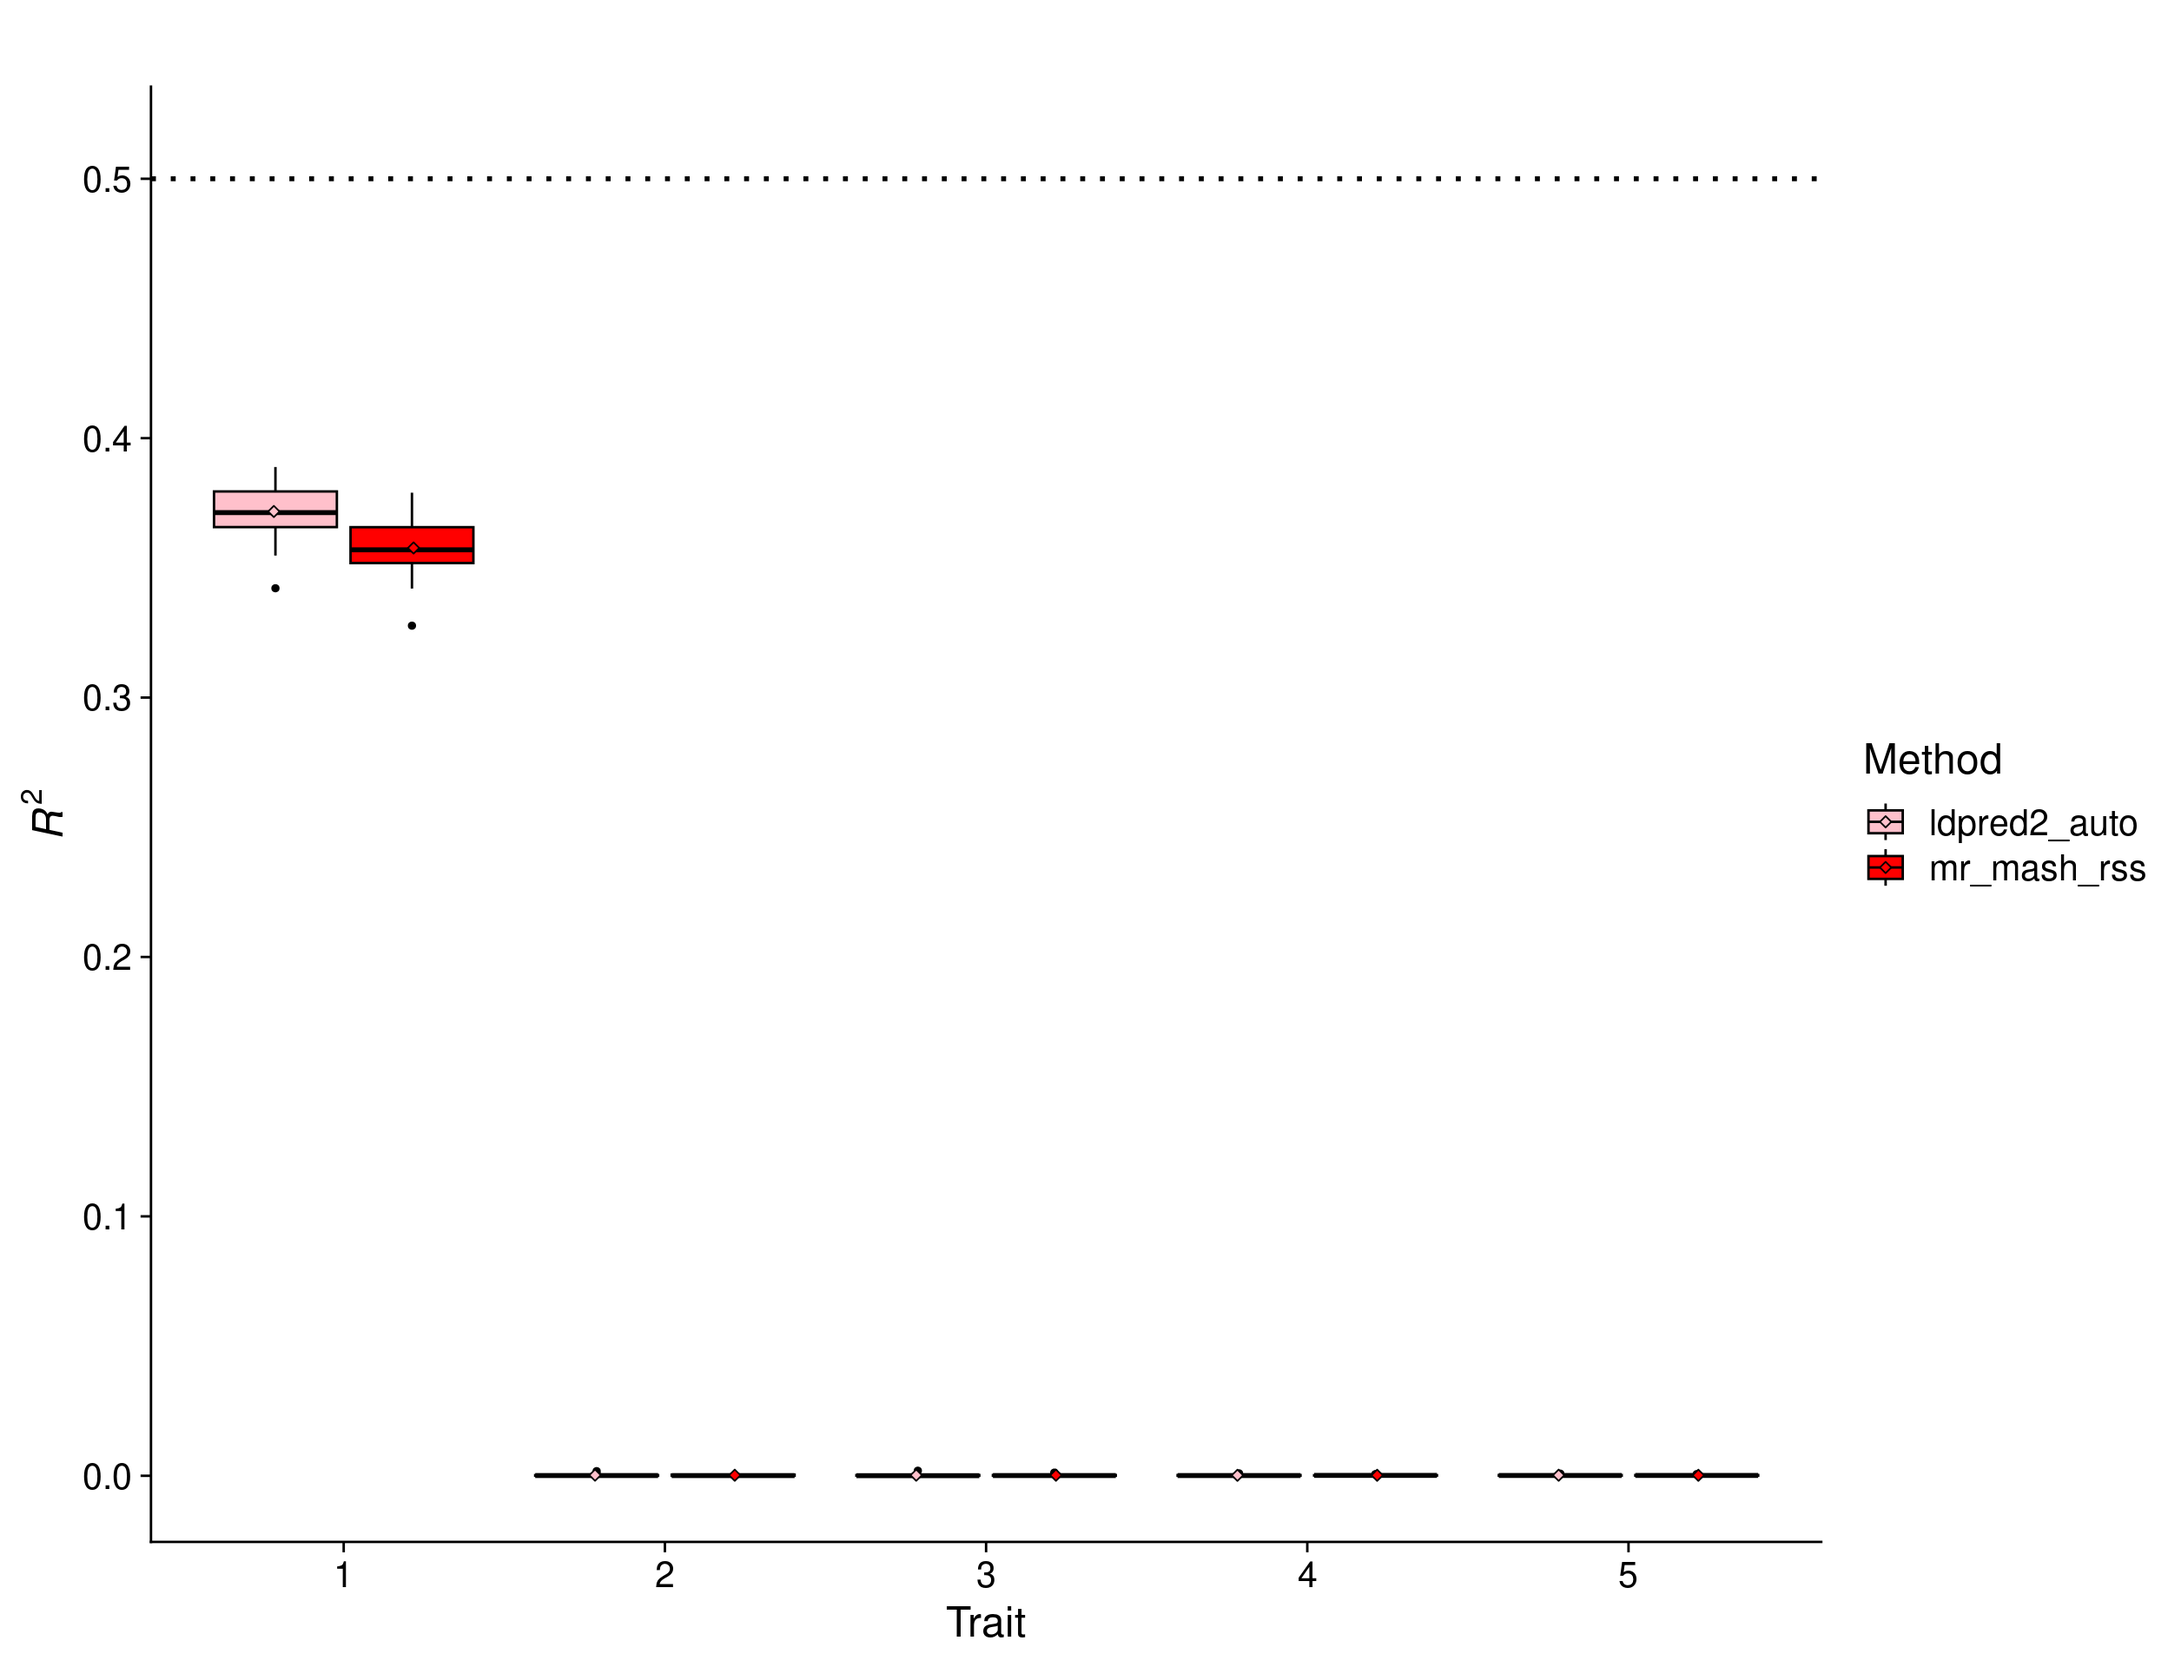
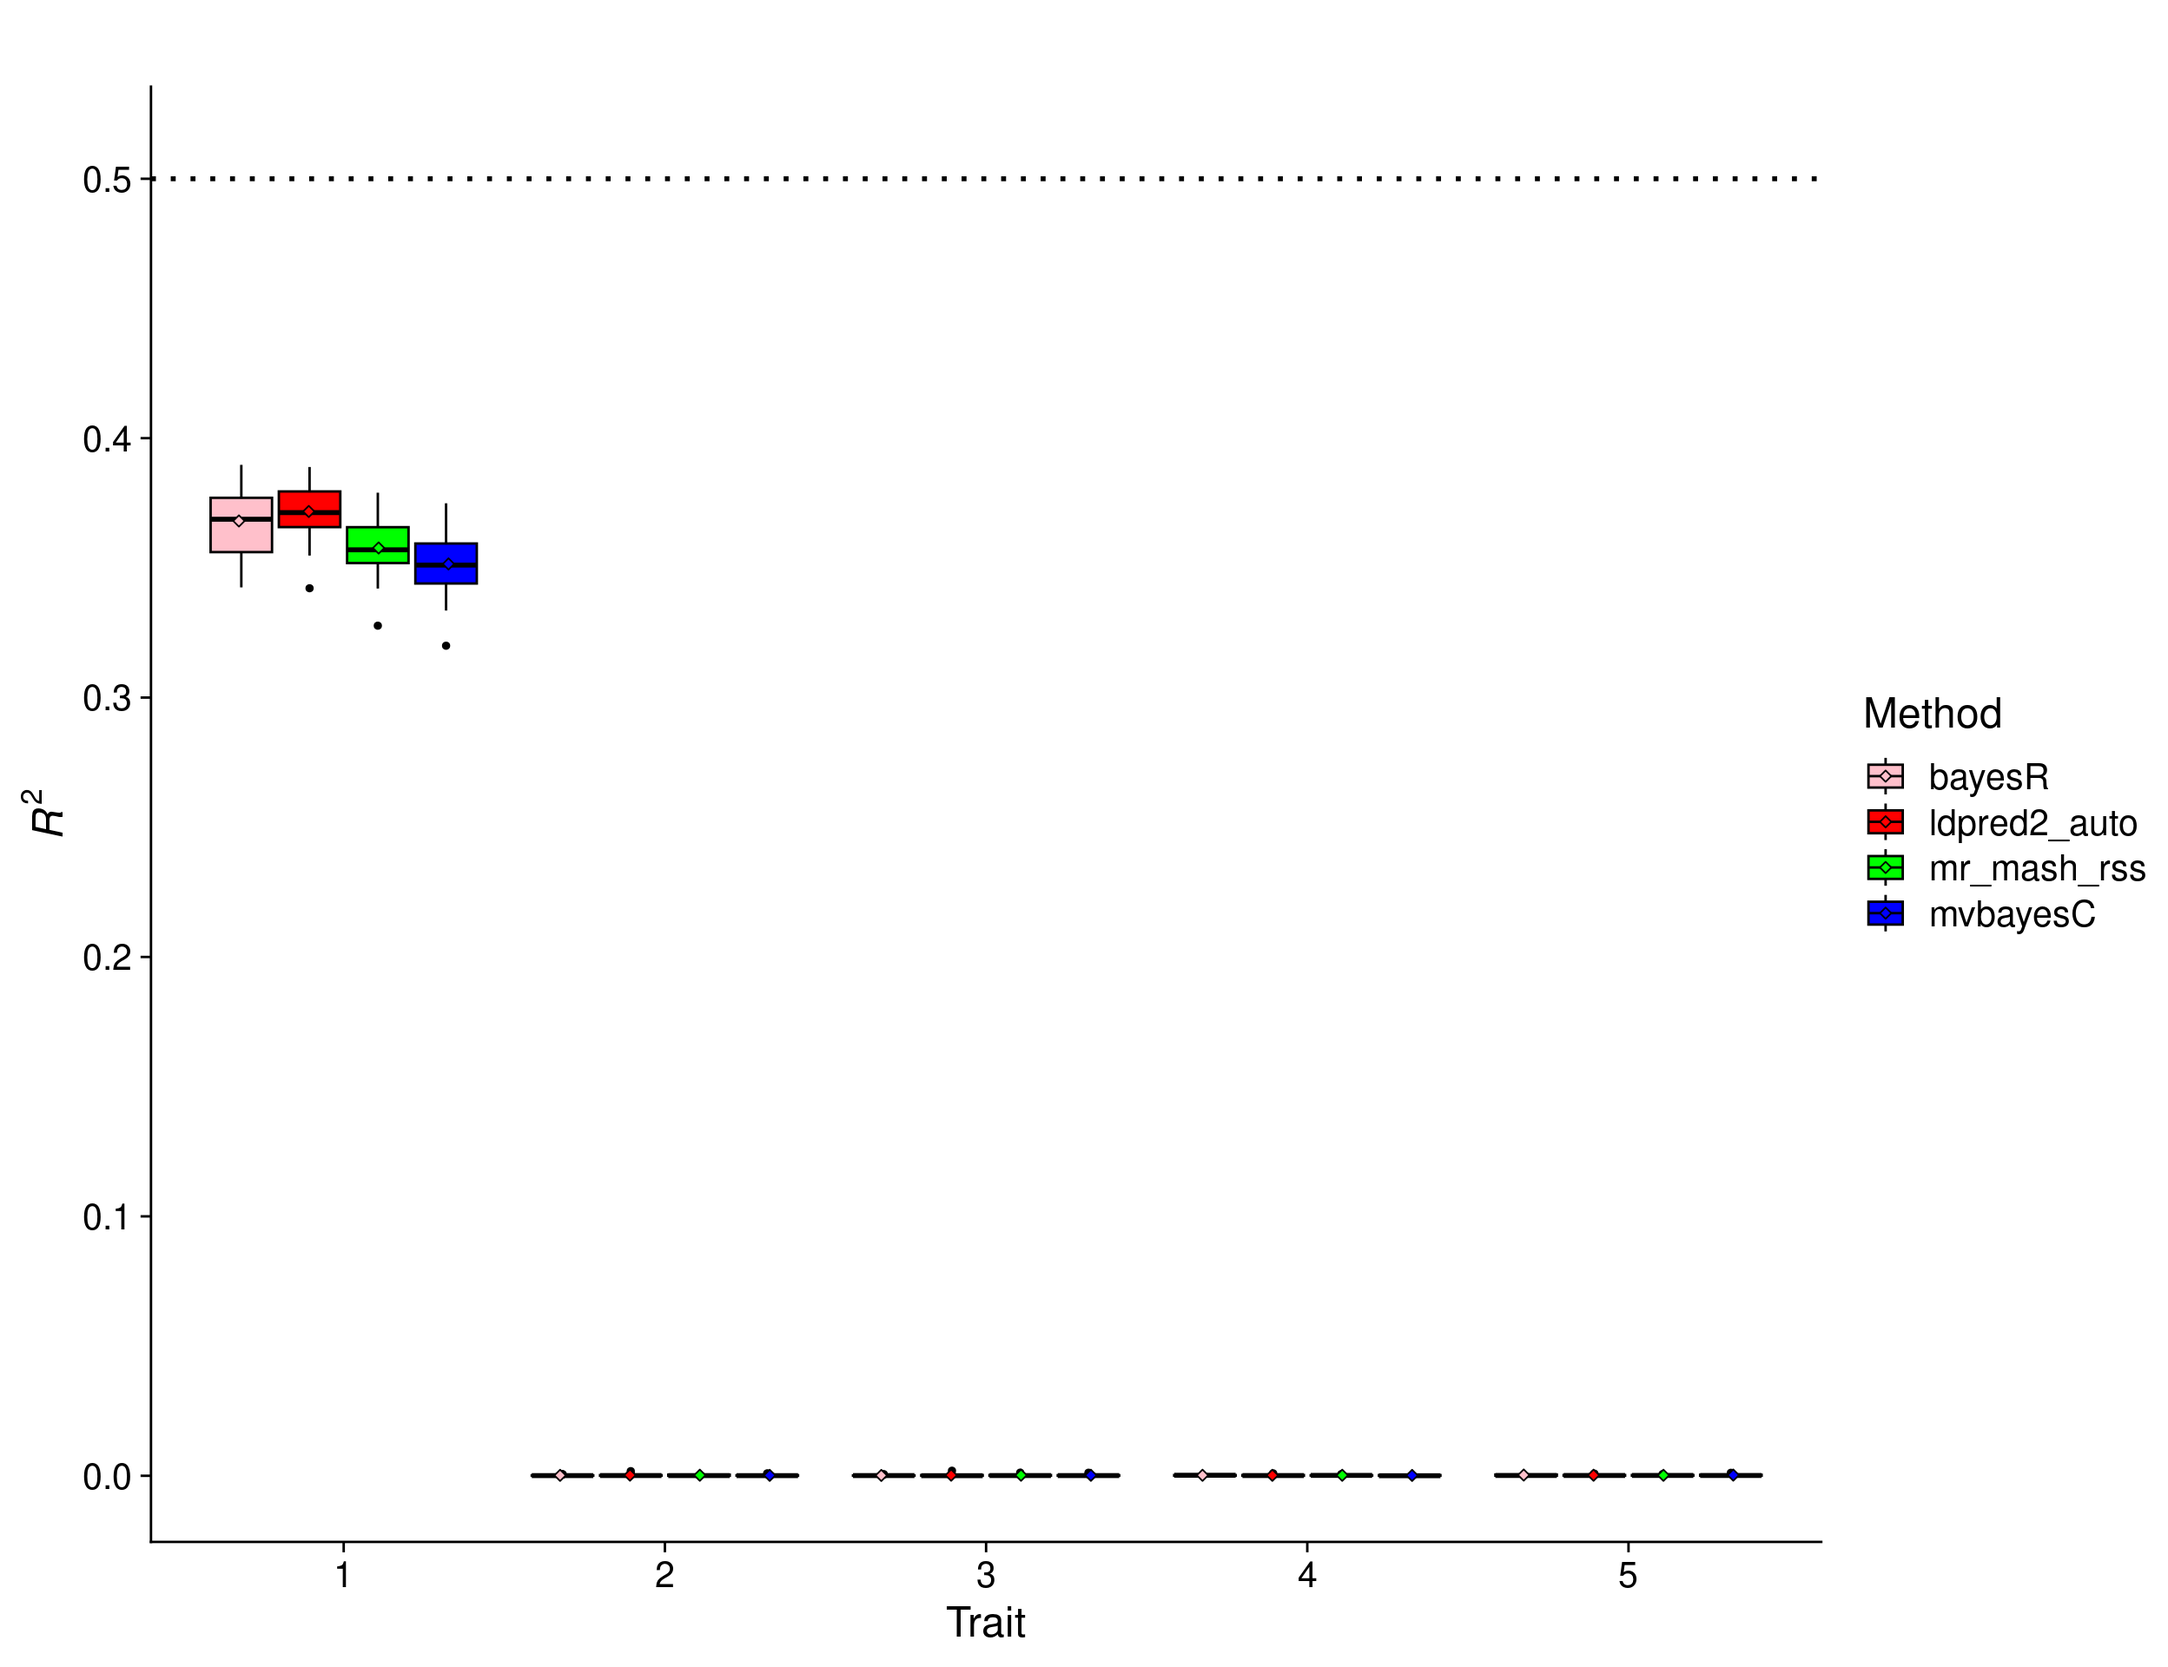
Build site.

Changed region(s): [[0.8438, 0.4062, 0.9688, 0.5625], [0.0938, 0.2812, 0.2188, 0.375]]

diff --git a/docs/ukb_sim_results.html b/docs/ukb_sim_results.html
@@ -534,15 +534,15 @@ project makes it easier to run your code on other machines.</p>
 <div class="panel panel-default">
 <div class="panel-heading">
 <p class="panel-title">
-<a data-toggle="collapse" data-parent="#workflowr-checks" href="#strongRepositoryversionstrongahrefhttpsgithubcommorgantelabmrmashrssanalysistreefbca521c05b98633d04e4ac8610e9bb277bb4f09targetblankfbca521a">
+<a data-toggle="collapse" data-parent="#workflowr-checks" href="#strongRepositoryversionstrongahrefhttpsgithubcommorgantelabmrmashrssanalysistree5a2fab8baec3cb596ee24ea2741ebda53a633003targetblank5a2fab8a">
 <span class="glyphicon glyphicon-ok text-success"
 aria-hidden="true"></span> <strong>Repository version:</strong>
-<a href="https://github.com/morgantelab/mr_mash_rss_analysis/tree/fbca521c05b98633d04e4ac8610e9bb277bb4f09" target="_blank">fbca521</a>
+<a href="https://github.com/morgantelab/mr_mash_rss_analysis/tree/5a2fab8baec3cb596ee24ea2741ebda53a633003" target="_blank">5a2fab8</a>
 </a>
 </p>
 </div>
 <div
[2 lines of base64/hex data omitted]
 class="panel-collapse collapse">
 <div class="panel-body">
 <p>
@@ -552,7 +552,7 @@ reproducibility.
 </p>
 <p>
 The results in this page were generated with repository version
-<a href="https://github.com/morgantelab/mr_mash_rss_analysis/tree/fbca521c05b98633d04e4ac8610e9bb277bb4f09" target="_blank">fbca521</a>.
+<a href="https://github.com/morgantelab/mr_mash_rss_analysis/tree/5a2fab8baec3cb596ee24ea2741ebda53a633003" target="_blank">5a2fab8</a>.
 See the <em>Past versions</em> tab to see a history of the changes made
 to the R Markdown and HTML files.
 </p>
@@ -637,6 +637,40 @@ Message
 </tr>
 </thead>
 <tbody>
+<tr>
+<td>
+Rmd
+</td>
+<td>
+<a href="https://github.com/morgantelab/mr_mash_rss_analysis/blob/5a2fab8baec3cb596ee24ea2741ebda53a633003/analysis/ukb_sim_results.Rmd" target="_blank">5a2fab8</a>
+</td>
+<td>
+fmorgante
+</td>
+<td>
+2023-11-15
+</td>
+<td>
+Update plots
+</td>
+</tr>
+<tr>
+<td>
+html
+</td>
+<td>
+<a href="https://rawcdn.githack.com/morgantelab/mr_mash_rss_analysis/18b92cc9dd8da124464ccaa7e80dd06c3ffcff4c/docs/ukb_sim_results.html" target="_blank">18b92cc</a>
+</td>
+<td>
+fmorgante
+</td>
+<td>
+2023-11-15
+</td>
+<td>
+Build site.
+</td>
+</tr>
 <tr>
 <td>
 html
@@ -2080,7 +2114,7 @@ distribution with mean vector 0 and covariance matrix that achieves
 effects (with variance 1) to be present only trait 1. The other 4 traits
 are only random noise.</p>
 <pre class="r"><code>scenarioz &lt;- &quot;trait_1_only_effects_indep_resid&quot;
-methodz &lt;- c(&quot;mr_mash_rss&quot;, &quot;ldpred2_auto&quot;)#, &quot;bayesR&quot;)
+methodz &lt;- c(&quot;mr_mash_rss&quot;, &quot;mvbayesC&quot;, &quot;ldpred2_auto&quot;, &quot;bayesR&quot;)
 
 i &lt;- 0
 
@@ -2250,7 +2284,7 @@ of the mixture applies to traits 1-3 while the second component applies
 to traits 4-5. The per-trait <span class="math inline">\(h^2_g\)</span>
 is 0.3 for traits 1-3 and 0.5 for the traits 4-5.</p>
 <pre class="r"><code>scenarioz &lt;- &quot;blocks_shared_effects_indep_resid&quot;
-methodz &lt;- c(&quot;mr_mash_rss&quot;, &quot;ldpred2_auto&quot;)#, &quot;bayesR&quot;)
+methodz &lt;- c(&quot;mr_mash_rss&quot;, &quot;mvbayesC&quot;, &quot;ldpred2_auto&quot;, &quot;bayesR&quot;)
 
 i &lt;- 0
 
